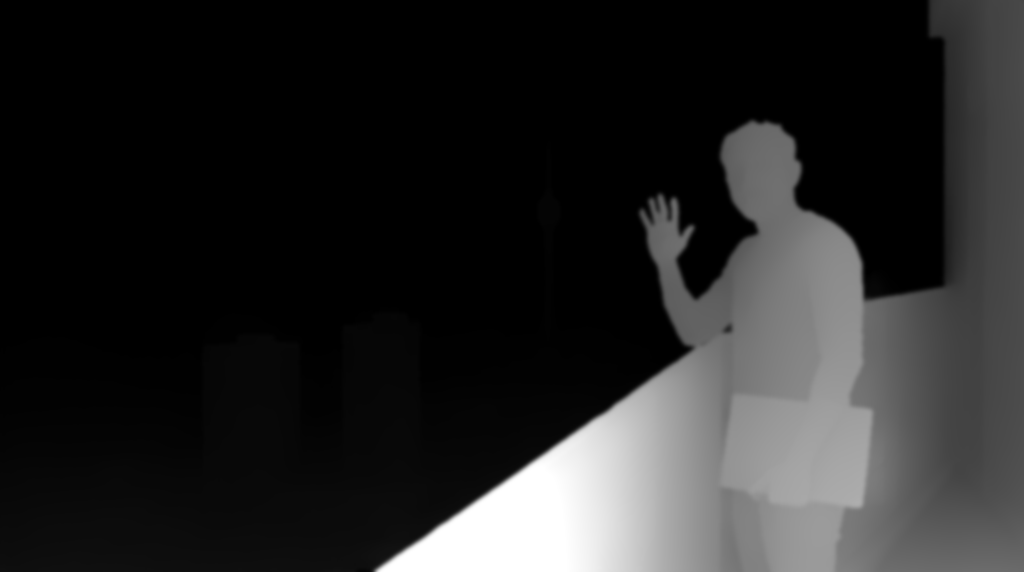
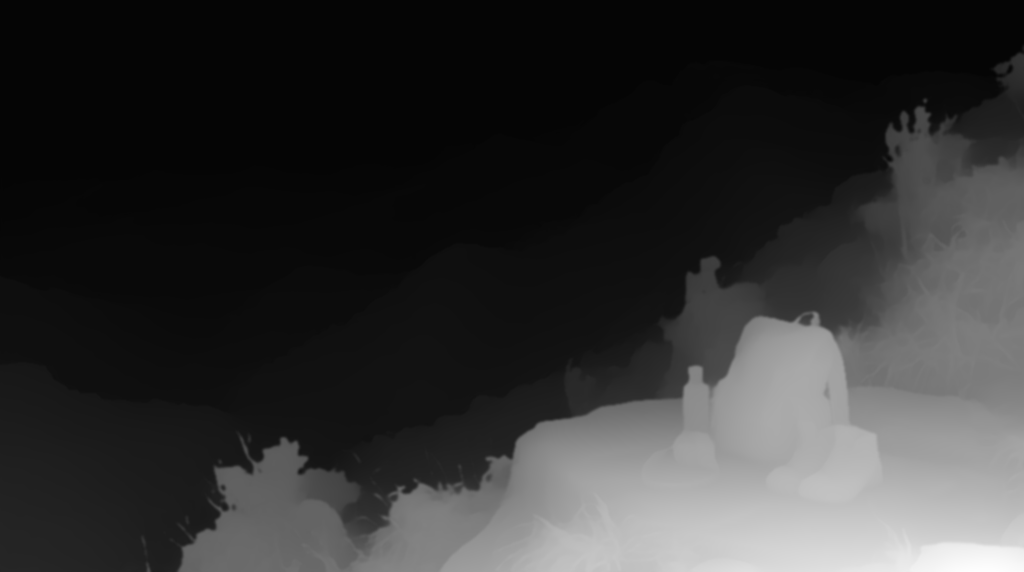
Off call gets its own hill-country sunset scene, before the rooftop

diff --git a/src/pages/Journey.tsx b/src/pages/Journey.tsx
@@ -567,29 +567,10 @@ export default function Journey() {
           </div>
         </section>
 
-        {/* 7 · 18:10 · the rooftop */}
-        <section id="toolbox" ref={reg(7)} className="j-ch">
+        {/* 7 · 17:30 · off call */}
+        <section id="offcall" ref={reg(7)} className="j-ch">
           <div className="j-panel j-panel--left j-panel--wide n-panel">
-            <p className="j-kicker">18:10 · The rooftop</p>
-            <h2 className="j-h2">The tools I reach for.</h2>
-            <Skills on={active === 7} groups={Object.entries(profile.skills) as [string, readonly string[]][]} />
-            <div className="n-reading">
-              <b>Writing</b>
-              {medium.articles.map((a) => (
-                <a key={a.url} href={a.url} target="_blank" rel="noopener noreferrer">
-                  {a.title} <Arrow />
-                </a>
-              ))}
-              <b>Courses</b>
-              <span>{COURSES.slice(0, 5).map((c) => c.title).join(" · ")}</span>
-            </div>
-          </div>
-        </section>
-
-        {/* 8 · 18:20 · off call */}
-        <section id="offcall" ref={reg(8)} className="j-ch">
-          <div className="j-panel j-panel--left j-panel--wide n-panel">
-            <p className="j-kicker">18:20 · Off call</p>
+            <p className="j-kicker">17:30 · Off call</p>
             <h2 className="j-h2">When the pager is quiet.</h2>
             <p className="n-copy">Sports, societies, the trails I hike, and what I build for fun.</p>
             <div className="n-off">
@@ -614,6 +595,25 @@ export default function Journey() {
                   </div>
                 </article>
               ))}
+            </div>
+          </div>
+        </section>
+
+        {/* 8 · 18:10 · the rooftop */}
+        <section id="toolbox" ref={reg(8)} className="j-ch">
+          <div className="j-panel j-panel--left j-panel--wide n-panel">
+            <p className="j-kicker">18:10 · The rooftop</p>
+            <h2 className="j-h2">The tools I reach for.</h2>
+            <Skills on={active === 8} groups={Object.entries(profile.skills) as [string, readonly string[]][]} />
+            <div className="n-reading">
+              <b>Writing</b>
+              {medium.articles.map((a) => (
+                <a key={a.url} href={a.url} target="_blank" rel="noopener noreferrer">
+                  {a.title} <Arrow />
+                </a>
+              ))}
+              <b>Courses</b>
+              <span>{COURSES.slice(0, 5).map((c) => c.title).join(" · ")}</span>
             </div>
           </div>
         </section>

diff --git a/src/components/journey/PhotoScene.tsx b/src/components/journey/PhotoScene.tsx
@@ -10,7 +10,7 @@ import { journey, LAST } from "./store";
    and lands in the next still. Depth maps make near things move more than far things, so the photos
    behave like footage rather than flat zooms. */
 
-const N = 11;
+const N = 12;
 const name = (i: number) => `K${String(i).padStart(2, "0")}`;
 
 type Cut = { out: [number, number]; in: [number, number]; dip?: number; flash?: number };
@@ -27,7 +27,8 @@ const CUTS: Cut[] = [
   { out: [0.53, 0.7], in: [0.45, 0.83] }, //                K06 the phone           -> K07 the same phone, quiet at dawn
   { out: [0.1, 0.35], in: [0.45, 0.25] }, //                K07 morning window      -> K08 the lab windows
   { out: [0.48, 0.22], in: [0.3, 0.2] }, //                 K08 the trees outside   -> K09 the campus trees
-  { out: [0.55, 0.1], in: [0.3, 0.12] }, //                 K09 the morning sky     -> K10 the sunset sky
+  { out: [0.55, 0.1], in: [0.3, 0.12] }, //                 K09 the morning sky     -> K10 the sunset over the hills
+  { out: [0.3, 0.12], in: [0.3, 0.12] }, //                  K10 the hill sunset     -> K11 the same sunset from the rooftop
 ];
 
 /** Real video for a transition (start frame = still i, end frame = still i+1). Add the number as clips arrive. */
@@ -37,10 +38,10 @@ const CLIPS = new Set<number>([4, 6]); // 01 city -> tower, 04 laptop -> data ce
 const clipUrl = (i: number) => (i < 0 ? "/media/web/clips/01.mp4" : `/media/web/clips/${String(i + 1).padStart(2, "0")}.mp4`);
 
 // Where the subject sits horizontally, used to crop sensibly on tall (phone) screens.
-const FOCUS_X = [0.5, 0.6, 0.74, 0.65, 0.5, 0.5, 0.55, 0.4, 0.42, 0.5, 0.6];
+const FOCUS_X = [0.5, 0.6, 0.74, 0.65, 0.5, 0.5, 0.55, 0.4, 0.42, 0.5, 0.72, 0.6];
 
-// The still each chapter holds on: cover, glance, WSO2, PageRewind, open source, projects, experience, toolbox, off call, contact.
-const HOLD = [2, 3, 5, 6, 7, 8, 9, 10, 10, 10.6];
+// The still each chapter holds on: cover, glance, WSO2, PageRewind, open source, projects, experience, off call, toolbox, contact.
+const HOLD = [2, 3, 5, 6, 7, 8, 9, 10, 11, 11.6];
 
 /** Chapter position (journey.t, 0..LAST) -> position along the stills (0..10.x). */
 function stillAt(t: number) {

diff --git a/src/components/journey/Night.tsx b/src/components/journey/Night.tsx
@@ -45,8 +45,8 @@ export const BEATS = [
   { time: "03:20", where: "The fix", state: "work", note: "mitigating" },
   { time: "09:30", where: "The lab", state: "ok", note: "resolved" },
   { time: "16:30", where: "Peradeniya", state: "ok", note: "postmortem" },
+  { time: "17:30", where: "Off call", state: "ok", note: "pager quiet" },
   { time: "18:10", where: "The rooftop", state: "ok", note: "all green" },
-  { time: "18:20", where: "Off call", state: "ok", note: "pager quiet" },
   { time: "18:30", where: "Hand-off", state: "ok", note: "resolved" },
 ] as const;
 

diff --git a/src/components/journey/store.ts b/src/components/journey/store.ts
@@ -17,8 +17,8 @@ export const CHAPTERS = [
   { id: "opensource", label: "Open source" },
   { id: "projects", label: "Projects" },
   { id: "path", label: "Experience" },
-  { id: "toolbox", label: "Toolbox" },
   { id: "offcall", label: "Off call" },
+  { id: "toolbox", label: "Toolbox" },
   { id: "contact", label: "Contact" },
 ] as const;
 
